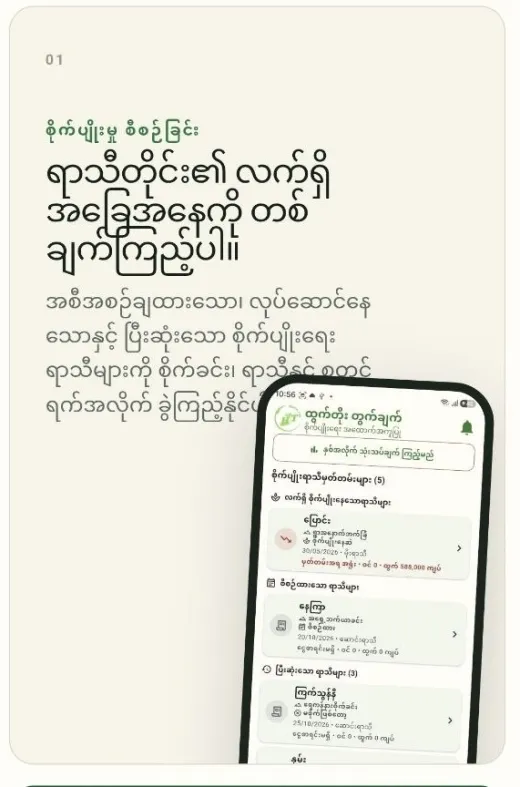
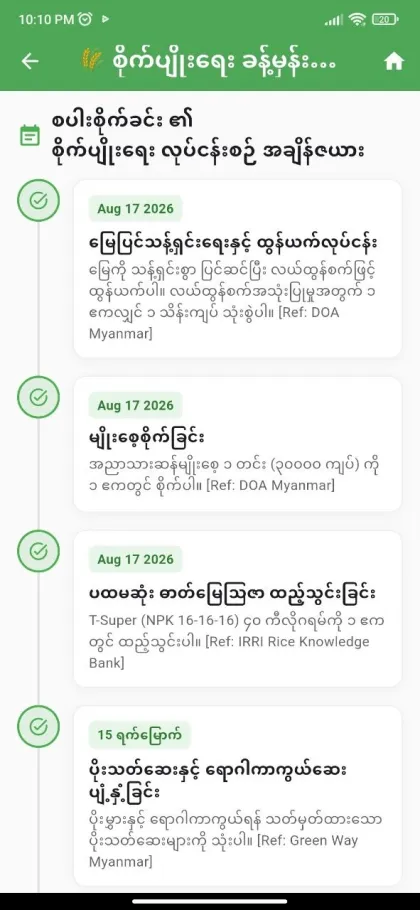
first commit

diff --git a/index.html b/index.html
@@ -21,7 +21,7 @@
         </span>
         <span>TechArgi</span>
       </a>
-      <a class="header-cta" href="https://drive.google.com/file/d/1rso29R_rzeRvzi1ZEfDS9GZ9bt89sluS/view?usp=drivesdk">
+      <a class="header-cta" href="https://drive.google.com/file/d/1T9NebCrXuatuAnCCfaI7S46oopWTA3WQ/view?usp=drivesdk">
         Android App Download
       </a>
     </header>
@@ -37,7 +37,7 @@
             အမြင့်မားဆုံးဖြစ်စေရန် ကူညီပံ့ပိုးပေးနိုင်ရန် ရည်ရွယ်ပါသည်။
           </p>
           <div class="hero-actions">
-            <a class="download-button" href="https://drive.google.com/file/d/1rso29R_rzeRvzi1ZEfDS9GZ9bt89sluS/view?usp=drivesdk">
+            <a class="download-button" href="https://drive.google.com/file/d/1T9NebCrXuatuAnCCfaI7S46oopWTA3WQ/view?usp=drivesdk">
               <svg viewBox="0 0 24 24" aria-hidden="true">
                 <path d="M17.6 9.5c.9 0 1.6.7 1.6 1.6v7.2c0 .9-.7 1.6-1.6 1.6H6.4c-.9 0-1.6-.7-1.6-1.6v-7.2c0-.9.7-1.6 1.6-1.6h11.2Zm-8.9 2.2v5.8h1.4v-5.8H8.7Zm5.2 0v5.8h1.4v-5.8h-1.4ZM8 7.2 6.7 5.1l.9-.5 1.4 2.3a7 7 0 0 1 6 0l1.4-2.3.9.5L16 7.2c1.1.7 1.9 1.8 2.2 3.1H5.8C6.1 9 6.9 7.9 8 7.2Zm1.7 1.5c.4 0 .7-.3.7-.7s-.3-.7-.7-.7S9 7.6 9 8s.3.7.7.7Zm4.6 0c.4 0 .7-.3.7-.7s-.3-.7-.7-.7-.7.3-.7.7.3.7.7.7Z" />
               </svg>
@@ -46,12 +46,12 @@
           </div>
         </div>
 
-        <div class="hero-visual" aria-label="TechArgi App ပုံရိပ်">
+        <div class="hero-visual" aria-label="Smart Farming Simulation System ပုံရိပ်">
           <img
             src="assets/app-splash.webp"
             width="420"
             height="910"
-            alt="TechArgi စိုက်ပျိုးရေး App မိတ်ဆက်ပုံ"
+            alt="Smart Farming Simulation System စိုက်ပျိုးရေး App မိတ်ဆက်ပုံ"
             fetchpriority="high"
           />
         </div>
@@ -87,9 +87,9 @@
           </div>
           <img
             src="assets/app-card.webp"
-            width="520"
-            height="787"
-            alt="TechArgi App အတွင်းရှိ စိုက်ပျိုးမှု စီမံခြင်း ကတ်ပုံစံ"
+            width="420"
+            height="910"
+            alt="Smart Farming Schedule လုပ်ငန်းစဉ် အချိန်ဇယား App ပုံရိပ်"
             loading="lazy"
           />
         </div>
@@ -181,7 +181,7 @@
             ခိုင်မာသော အခြေခံအုတ်မြစ်တစ်ခုကို ပံ့ပိုးပေးမည် ဖြစ်ပါသည်။
           </p>
         </div>
-        <a class="download-button" href="https://drive.google.com/file/d/1rso29R_rzeRvzi1ZEfDS9GZ9bt89sluS/view?usp=drivesdk">
+        <a class="download-button" href="https://drive.google.com/file/d/1T9NebCrXuatuAnCCfaI7S46oopWTA3WQ/view?usp=drivesdk">
           <svg viewBox="0 0 24 24" aria-hidden="true">
             <path d="M17.6 9.5c.9 0 1.6.7 1.6 1.6v7.2c0 .9-.7 1.6-1.6 1.6H6.4c-.9 0-1.6-.7-1.6-1.6v-7.2c0-.9.7-1.6 1.6-1.6h11.2Zm-8.9 2.2v5.8h1.4v-5.8H8.7Zm5.2 0v5.8h1.4v-5.8h-1.4ZM8 7.2 6.7 5.1l.9-.5 1.4 2.3a7 7 0 0 1 6 0l1.4-2.3.9.5L16 7.2c1.1.7 1.9 1.8 2.2 3.1H5.8C6.1 9 6.9 7.9 8 7.2Z" />
           </svg>
@@ -192,7 +192,7 @@
 
     <footer>
       <p>TechArgi</p>
-      <a href="https://drive.google.com/file/d/1rso29R_rzeRvzi1ZEfDS9GZ9bt89sluS/view?usp=drivesdk">
+      <a href="https://drive.google.com/file/d/1T9NebCrXuatuAnCCfaI7S46oopWTA3WQ/view?usp=drivesdk">
         Android App Download
       </a>
     </footer>

diff --git a/styles.css b/styles.css
@@ -247,7 +247,6 @@ h3 {
 .app-card {
   position: relative;
   max-width: 980px;
-  min-height: 620px;
   margin-inline: auto;
   padding: clamp(26px, 7vw, 58px);
   overflow: hidden;
@@ -272,8 +271,8 @@ h3 {
 
 .card-copy h2 {
   max-width: 14ch;
-  font-size: clamp(2rem, 9vw, 4.3rem);
-  line-height: 1.18;
+  font-size: clamp(1.75rem, 8vw, 3.2rem);
+  line-height: 1.24;
 }
 
 .card-copy p:last-child {
@@ -283,14 +282,14 @@ h3 {
 }
 
 .app-card img {
-  position: absolute;
-  right: clamp(-74px, -7vw, -24px);
-  bottom: -68px;
-  width: min(58vw, 400px);
+  position: relative;
+  z-index: 1;
+  width: min(100%, 300px);
   height: auto;
+  margin: 26px auto -14px;
   border-radius: 28px;
   box-shadow: 0 22px 46px rgba(36, 59, 40, 0.2);
-  transform: rotate(5deg);
+  transform: rotate(2deg);
 }
 
 .feature-grid {
@@ -387,6 +386,20 @@ footer a {
     width: min(31vw, 330px);
   }
 
+  .app-card {
+    min-height: 660px;
+    padding-right: min(44vw, 460px);
+  }
+
+  .app-card img {
+    position: absolute;
+    right: clamp(20px, 5vw, 70px);
+    bottom: -54px;
+    width: min(32vw, 330px);
+    margin: 0;
+    transform: rotate(4deg);
+  }
+
   .feature-grid {
     grid-template-columns: repeat(2, minmax(0, 1fr));
   }
@@ -420,15 +433,7 @@ footer a {
   }
 
   .app-card {
-    min-height: 700px;
-    padding-bottom: 330px;
     border-radius: 22px;
-  }
-
-  .app-card img {
-    right: -54px;
-    bottom: -42px;
-    width: 300px;
   }
 
   footer {
